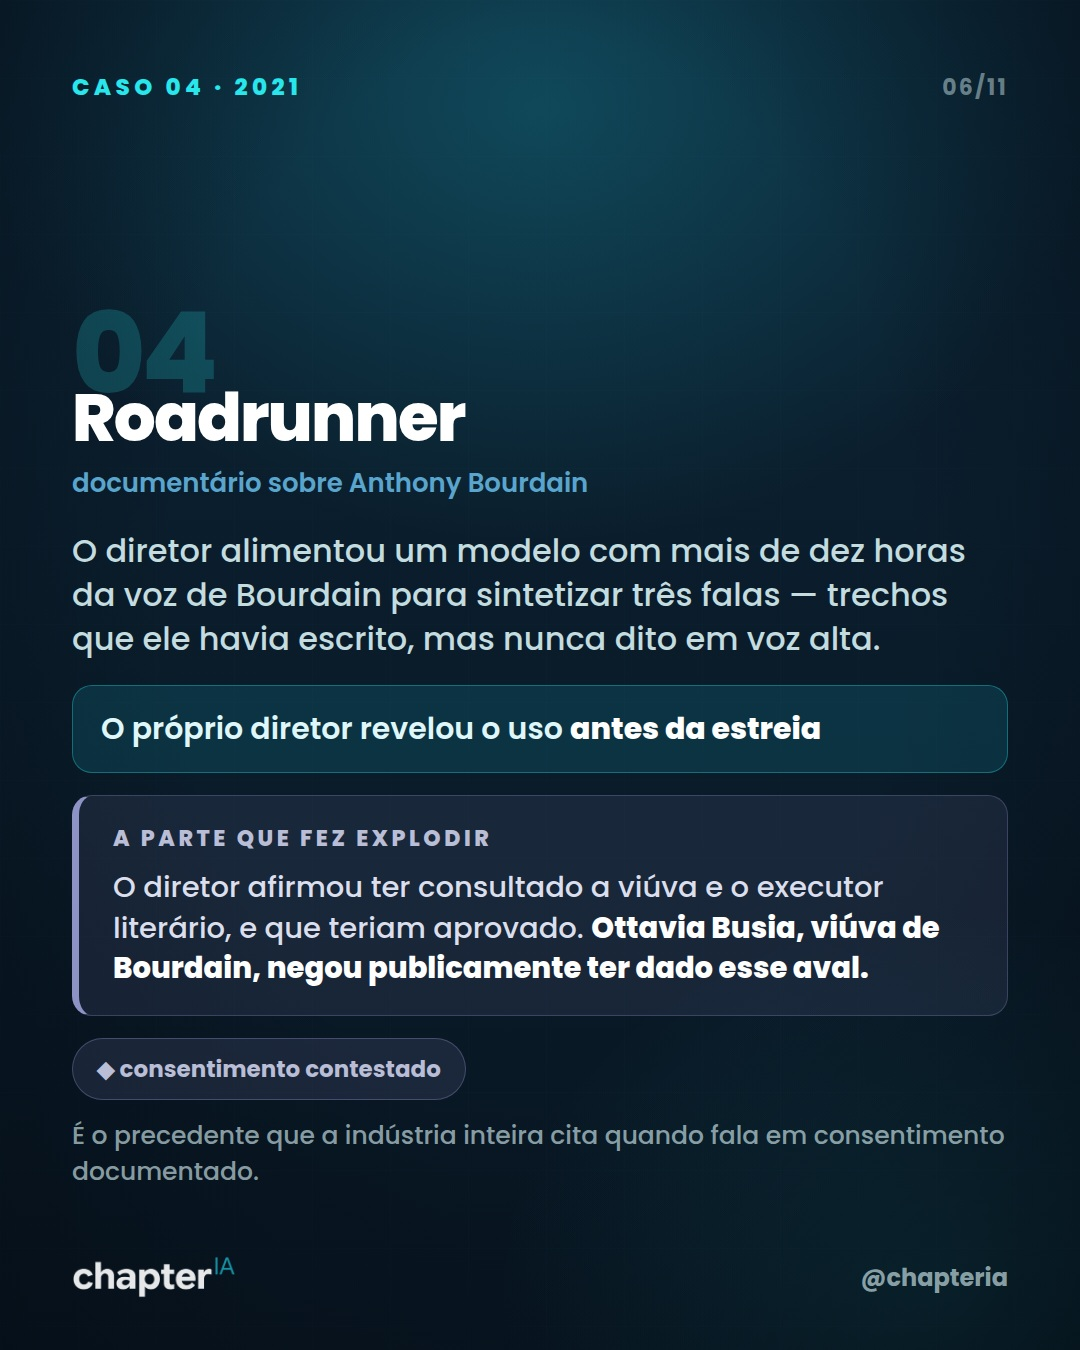
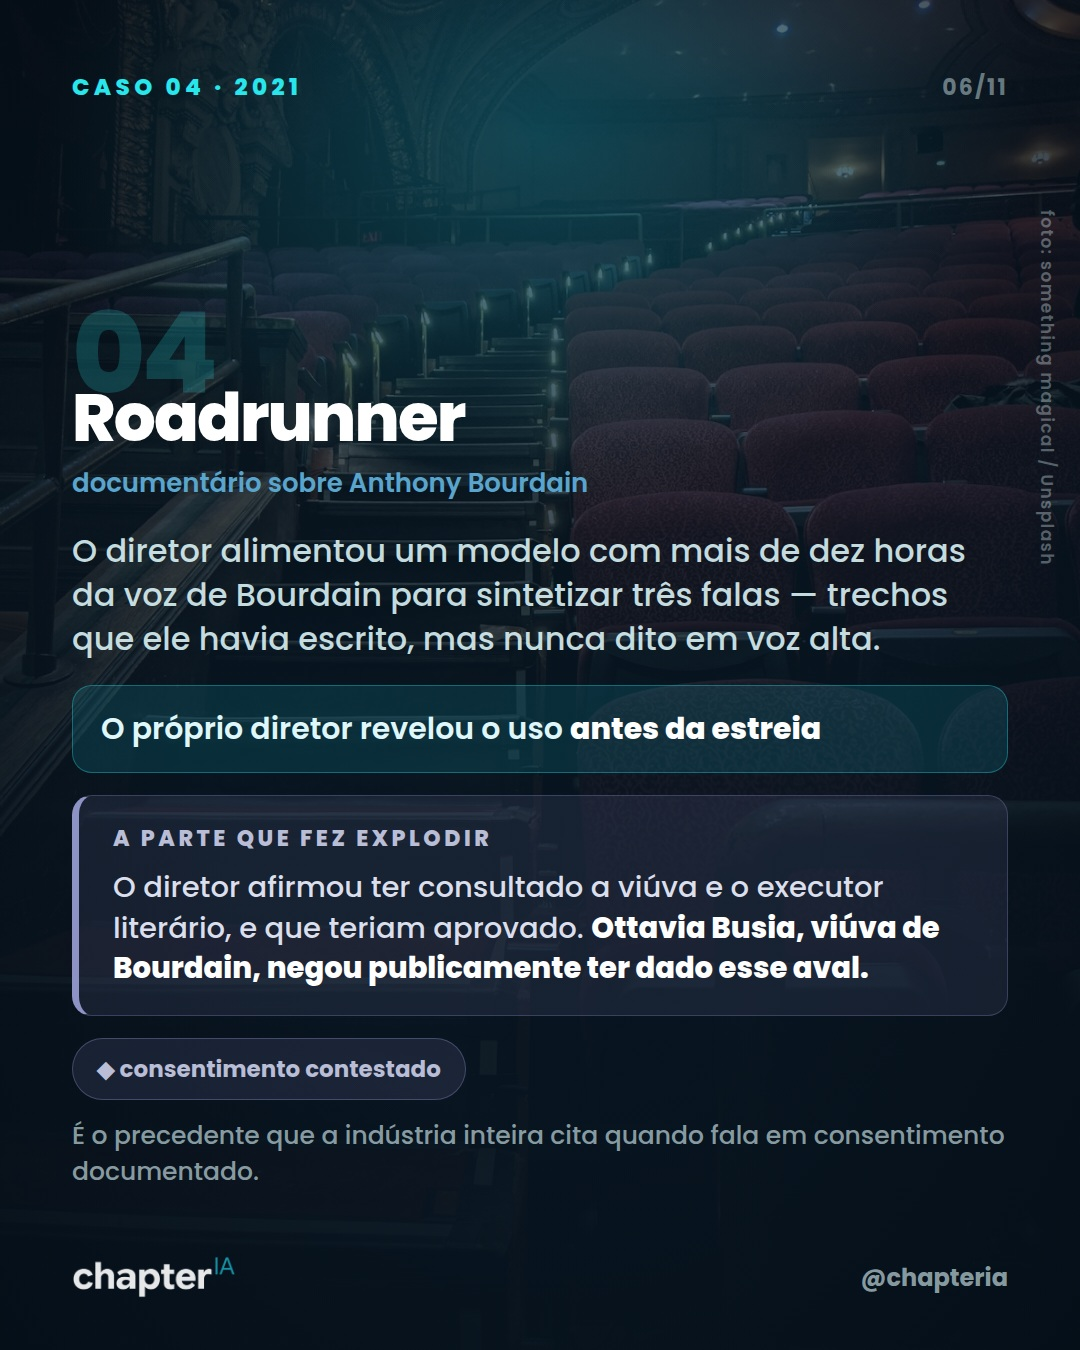
Pauta 5: aplica as nove fotos do Unsplash nas laminas
O dominio images.unsplash.com foi liberado no allowlist do ambiente e o
download passou a funcionar na mesma sessao, sem reinicio -- ao contrario
do que eu havia previsto.

Nove fotos entram como fundo em nove das onze laminas. As laminas 08
(desmentidos) e 11 (CTA) ficam sem foto de proposito, para dar respiro
antes do fechamento.

Tratamento: grayscale parcial mais camada de tinta petroleo e brilho
ciano no topo, para que fotos de origens diferentes leiam como uma peca
so dentro da paleta, sem competir com a tipografia. Credito do fotografo
na borda direita, na vertical.

Toda a selecao e de objeto e ambiente, sem rosto identificavel: a licenca
do Unsplash nao da direito sobre pessoas que aparecam na foto, e a peca
pode ser impulsionada.

Dois acertos no caminho: o credito colidia com a ultima linha de texto, e
o nome de um fotografo em caracteres CJK virava tofu na Poppins --
substituido pelo nome de usuario.

Claude-Session: https://claude.ai/code/session_01TRRjPqLtPPeRw63FEdxucr

diff --git a/social/posts/2026-09-02-semana/5-filmes-com-ia/SHOTLIST-unsplash.md b/social/posts/2026-09-02-semana/5-filmes-com-ia/SHOTLIST-unsplash.md
@@ -3,9 +3,9 @@
 Selecionadas via MCP do Unsplash em 02/09/2026. **Baixar e colocar em
 `social/referencia/unsplash/` com o nome indicado** — depois eu componho nas lâminas.
 
-> **Por que manual:** a busca do MCP funciona, mas o download é bloqueado no ambiente.
-> `images.unsplash.com` está fora do allowlist do proxy (403 no curl, tunnel failed no Chromium).
-> Liberando esse domínio, eu passo a baixar e compor sem passo manual.
+> **RESOLVIDO em 02/09.** `images.unsplash.com` foi liberado no allowlist do ambiente `ChapterIA`
+> e o download passou a funcionar na mesma sessão, sem reinício. As nove fotos já estão aplicadas
+> no carrossel — este arquivo fica como registro da curadoria e dos créditos.
 
 ## Seleção
 
@@ -19,8 +19,9 @@ Selecionadas via MCP do Unsplash em 02/09/2026. **Baixar e colocar em
 | `mic-03.jpg` | 06 · Roadrunner | Microfone de podcast em braço articulado | Jukka Aalho | https://unsplash.com/photos/black-and-silver-microphone-with-stand-OaPksPcVp50 |
 | `projetor-01.jpg` | 02 · o critério | Projetor em foco raso | Hermes Rivera | https://unsplash.com/photos/shallow-photography-of-camera-HdgB6VyjK70 |
 
-**Ainda faltam duas buscas** (peço quando você quiser): TV antiga para a lâmina 07
-(*Late Night with the Devil*) e estúdio de dublagem/fones para a lâmina 10 (ângulo brasileiro).
+**Completadas depois:** `tv.jpg` (cshong) para a lâmina 07 e `fones.jpg` (Sebastian Banasiewcz)
+para a lâmina 10. Total aplicado: **nove fotos em nove das onze lâminas** — as lâminas 08
+(desmentidos) e 11 (CTA) ficaram sem foto de propósito, para dar respiro antes do fechamento.
 
 ## Licença e créditos
 
@@ -34,6 +35,15 @@ A licença do Unsplash **permite uso comercial e não exige atribuição**, mas:
 justo e barato dar):
 - `mic-03.jpg` — *"Image: Jukka Aalho / Kertojan ääni"*
 - o projetor de Travis Johansen (não selecionado acima) pede crédito a providfilms.com
+
+## Tratamento aplicado
+
+Cada foto entra em tela cheia com `grayscale(.42) contrast(1.06) brightness(.92)` e uma camada
+de tinta petróleo + brilho ciano no topo. Isso faz fotos de origens diferentes lerem como uma
+peça só, dentro da paleta, sem competir com a tipografia.
+
+O crédito vai na borda direita, na vertical. Não é exigido pela licença — é cortesia com quem
+fotografou, e custa nada.
 
 ## Como isso entra na arte
 
